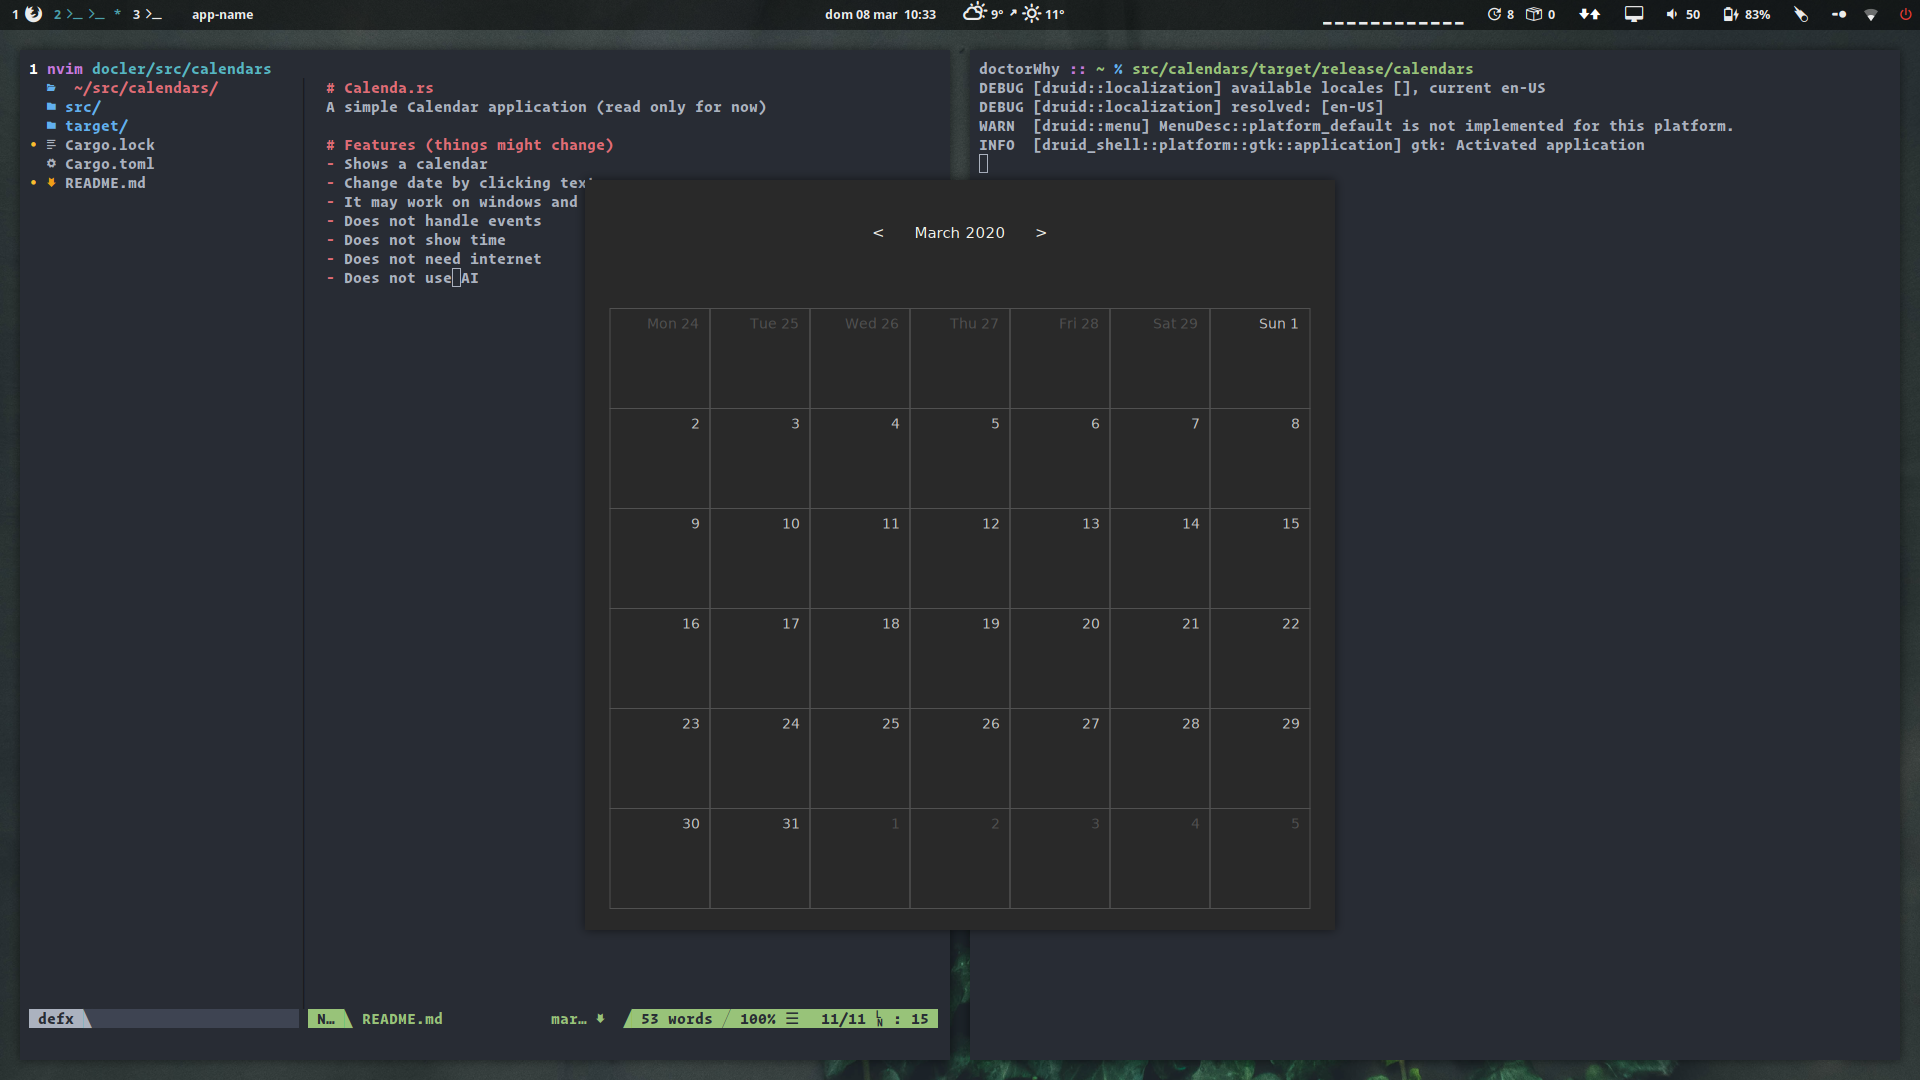
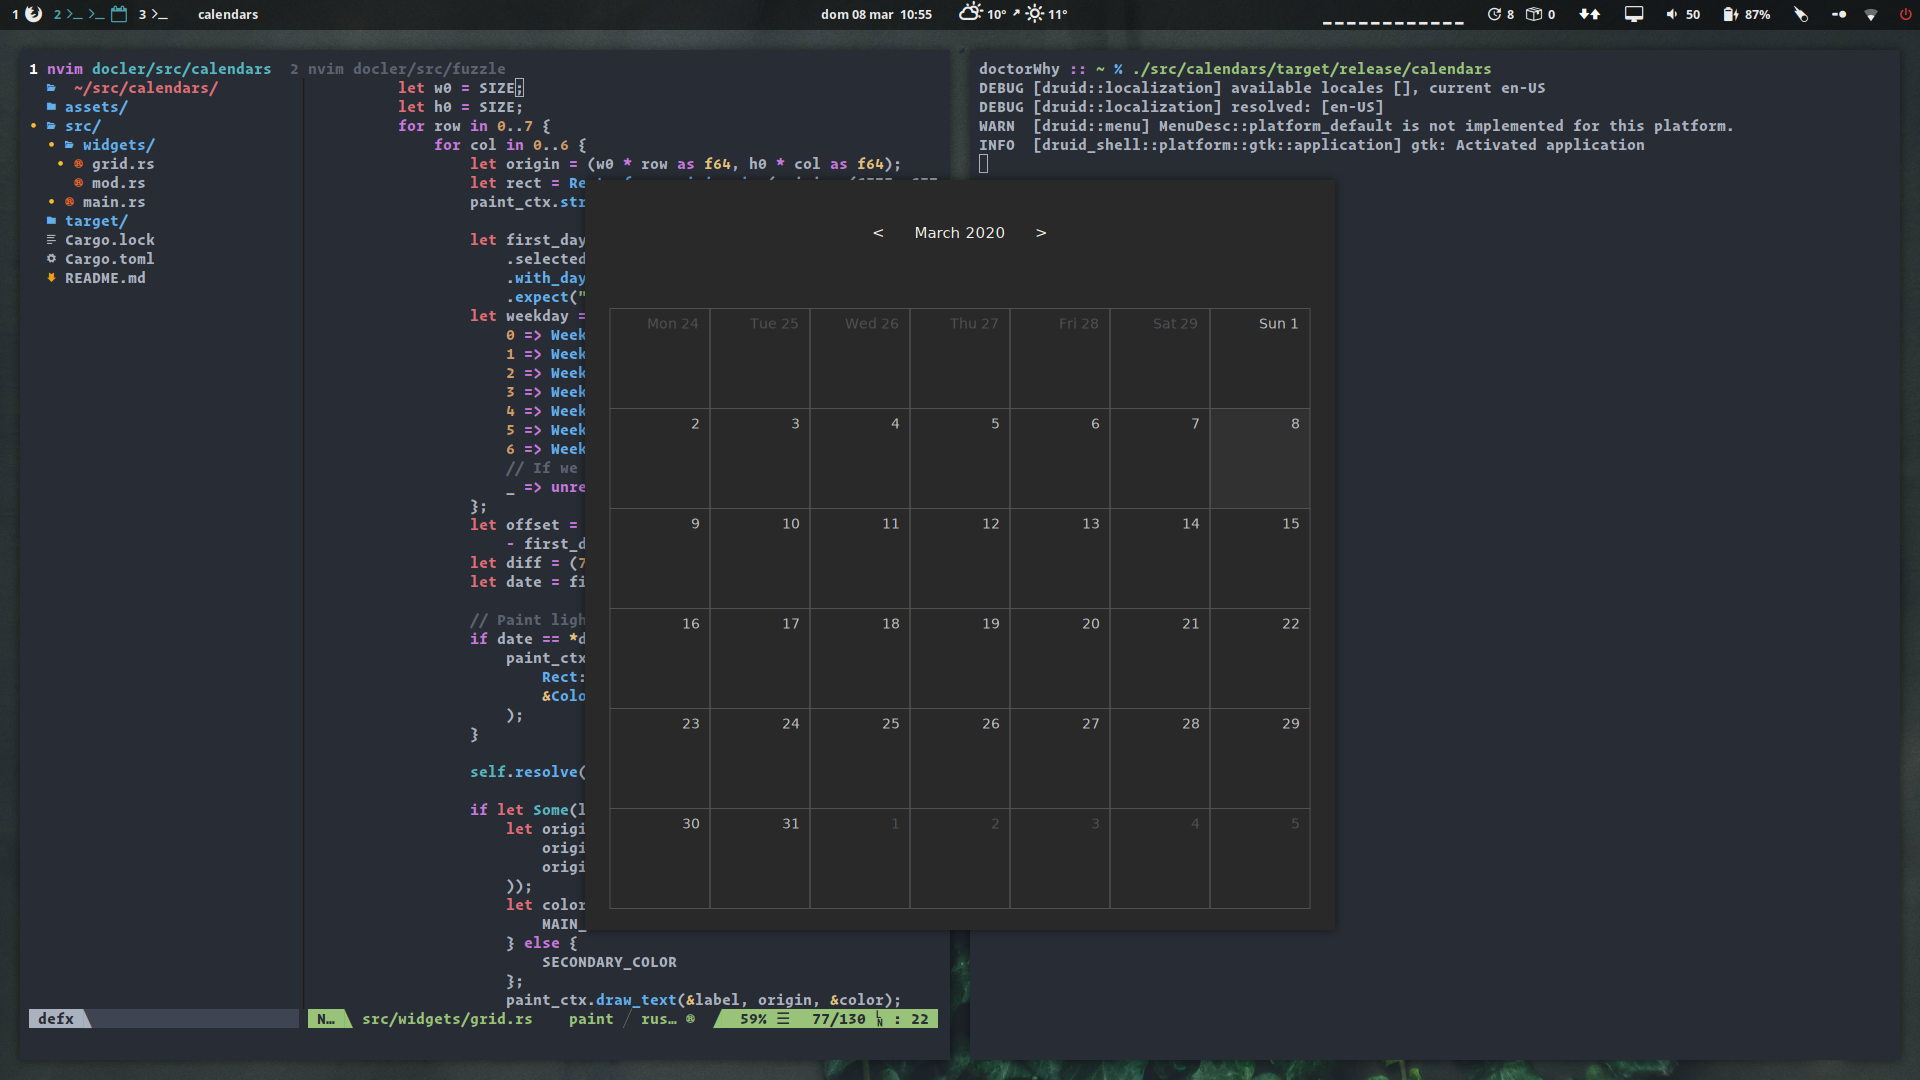
Fixes

diff --git a/src/main.rs b/src/main.rs
@@ -1,7 +1,7 @@
 mod widgets;
 
 use druid::widget::{Button, Flex, WidgetExt};
-use druid::{theme,Color, AppLauncher, Data, Env, EventCtx, Lens, Widget, WindowDesc};
+use druid::{theme,Color, LocalizedString, AppLauncher, Data, Env, EventCtx, Lens, Widget, WindowDesc};
 use std::sync::Arc;
 
 use chrono::{Date, Datelike, Duration, NaiveDate, Utc};
@@ -13,11 +13,16 @@ struct AppState {
     selected_date: Arc<Date<Utc>>,
 }
 
-fn month_days(year: i32, month: u32) -> u32 {
-    NaiveDate::from_ymd_opt(year, month + 1, 1)
-        .unwrap_or_else(|| NaiveDate::from_ymd(year + 1, 1, 1))
+/// Number of days in a month. Returns i64 because that's what Duration takes
+fn month_days(date: Date<Utc>) -> i64 {
+    NaiveDate::from_ymd_opt(date.year(), date.month() + 1, 1)
+        .unwrap_or_else(|| NaiveDate::from_ymd(date.year() + 1, 1, 1))
         .pred()
-        .day()
+        .day() as i64
+}
+
+fn prev_month_days(date: Date<Utc>) -> i64 {
+    date.with_day(1).expect("This should never fail").pred().day() as i64
 }
 
 fn ui_builder() -> impl Widget<AppState> {
@@ -29,8 +34,7 @@ fn ui_builder() -> impl Widget<AppState> {
                         "<",
                         |_ctx: &mut EventCtx, data: &mut AppState, _env: &Env| {
                             let date: Date<Utc> = *data.selected_date;
-                            let date =
-                                date - Duration::days(month_days(date.year(), date.month()) as i64);
+                            let date = date - Duration::days(prev_month_days(date));
                             data.selected_date = Arc::new(date);
                         },
                     )
@@ -52,8 +56,7 @@ fn ui_builder() -> impl Widget<AppState> {
                         ">",
                         |_ctx: &mut EventCtx, data: &mut AppState, _env: &Env| {
                             let date: Date<Utc> = *data.selected_date;
-                            let date =
-                                date + Duration::days(month_days(date.year(), date.month()) as i64);
+                            let date = date + Duration::days(month_days(date));
                             data.selected_date = Arc::new(date);
                         },
                     )
@@ -68,6 +71,7 @@ fn ui_builder() -> impl Widget<AppState> {
 fn main() {
     let main_window = WindowDesc::new(ui_builder)
         .window_size((750., 750.))
+        .title(LocalizedString::new("calendars").with_placeholder(String::from("calendars")))
         .show_titlebar(false)
         .resizable(false);
     let data = AppState {

diff --git a/src/widgets/grid.rs b/src/widgets/grid.rs
@@ -82,7 +82,7 @@ impl Widget<AppState> for Grid {
                 let rect = Rect::from_origin_size(origin, (SIZE, SIZE));
                 paint_ctx.stroke(rect, &SECONDARY_COLOR, 1.);
 
-                let first_day: chrono::Date<chrono::Utc> = data
+                let first_day: Date<Utc> = data
                     .selected_date
                     .with_day(1)
                     .expect("Couldn't get first day of the month");
@@ -101,6 +101,14 @@ impl Widget<AppState> for Grid {
                     - first_day.weekday().number_from_monday() as i64;
                 let diff = (7 * col as i64) + offset;
                 let date = first_day + chrono::Duration::days(diff);
+
+                // Paint lighter background if selected day
+                if date == *data.selected_date {
+                    paint_ctx.fill(
+                        Rect::from_origin_size(origin, Size::new(w0, h0)),
+                        &Color::rgba8(0xff, 0xff, 0xff, 0x09),
+                    );
+                }
 
                 self.resolve(paint_ctx.text(), date, col == 0);
 
